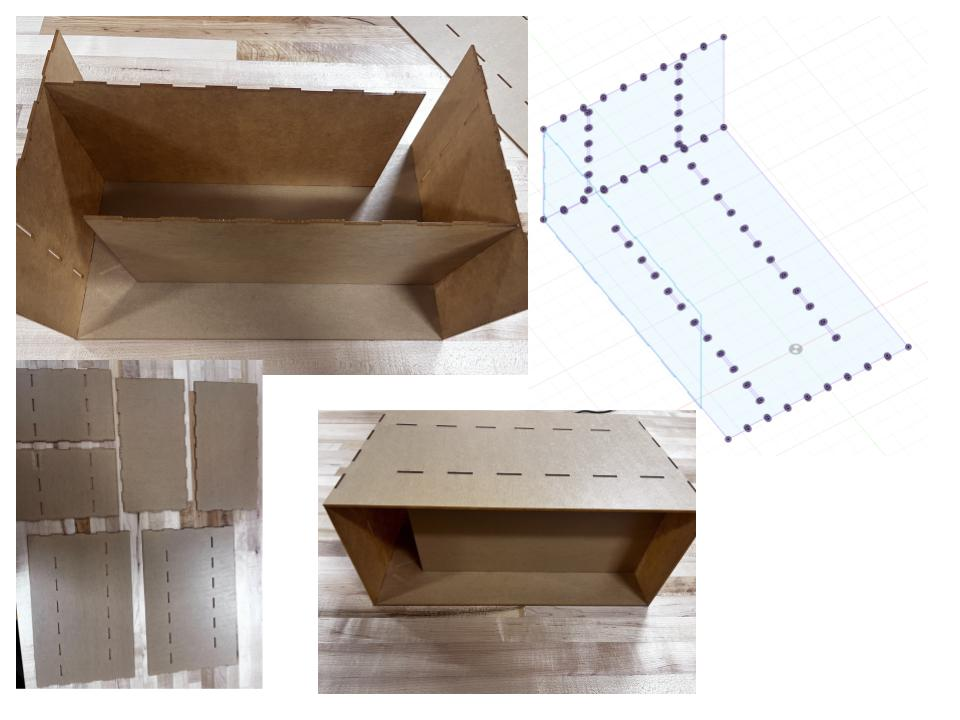
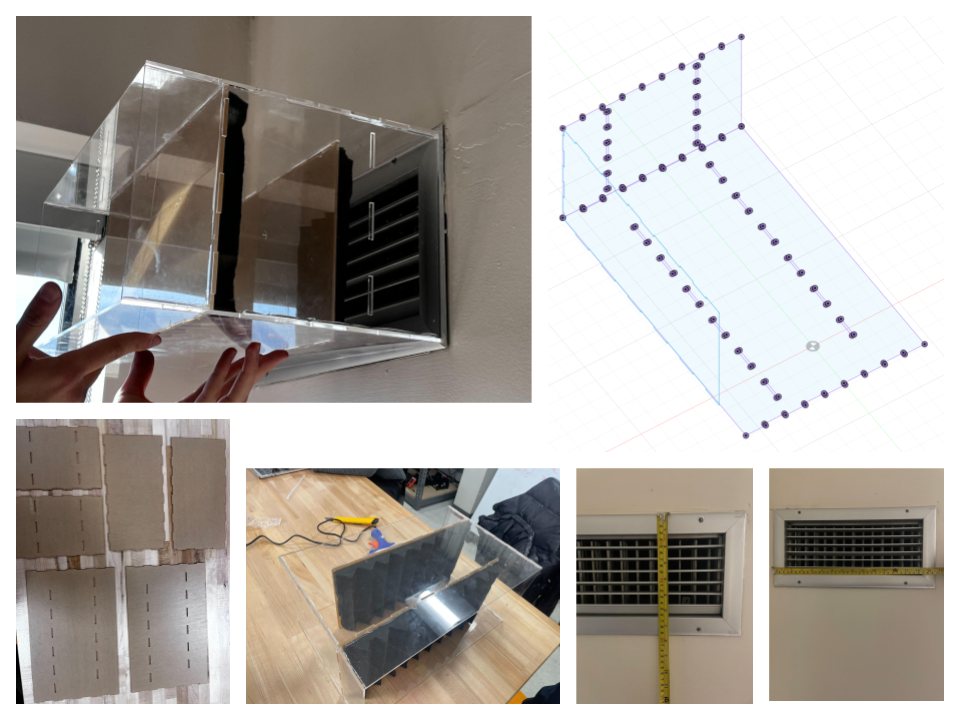
here we go

diff --git a/item.html b/item.html
@@ -46,7 +46,7 @@
                         <br>
                         1. To make your own ventsulator with your own vent's dimensions, download the fusion file <a href="assets/ventsulator.f3d" download="vent-design.f3d" class="btn btn-link">here</a>
                         <br>
-                        2. Put in your own dimensions for in the parameters tab
+                        2. Put in your own dimensions for in the parameters tab. NB: The picture above uses the standard vent in ziv should be 39 by 9.2 cm. It is recommended to make the outside of the vent slightly bigger so it can fit around the outside
                         <br>
                         3. Download and laser print two of each of the dxf files for each sketch
                         <br>
@@ -56,7 +56,7 @@
                         <br>
                         6. Assemble and glue the ventsulator
                         </p>
-                        <small>*this is compatible with Brandeis dorm rules which allow you to hold up objects with command strips or tape <a href="https://www.brandeis.edu/dcl/housing-on-campus/prohibited-items.html" target="_blank" rel="noopener noreferrer">see the dorm rules here</a> </small>
+                        <small>*The foam should be added to the panels in the middle like so, the transparent sides are for demonstration purposes. This is compatible with Brandeis dorm rules which allow you to hold up objects with command strips or tape <a href="https://www.brandeis.edu/dcl/housing-on-campus/prohibited-items.html" target="_blank" rel="noopener noreferrer">see the dorm rules here</a> </small>
                     </div>
                 </div>
             </div>
@@ -150,6 +150,24 @@
                 </div>
             </div>
         </section>
+        <!-- Sarah Hendren Reading -->
+        <header class="bg-dark py-5">
+            <div class="container px-5">
+                <div class="row gx-5 align-items-center justify-content-center">
+                    <div class="col-lg-9 col-xl-8 col-xxl-7">
+                        <div class="my-5 text-center text-xl-start">
+                            <h1 class="display-5 fw-bolder text-white-75 mb-2" style="font-family: 'Arial', sans-serif;">Overview</h1>
+                                <p class="lead fw-normal text-white-50 mb-4">Despite our idea being initially designed for Avi's vent, we realized it was much more than this. Through interviews and research, we found that many students struggle with sensory issues in their dorm but have no solution to these problems. After realizing our solution could be applied not just to Avi, we pivoted the idea so that it could become an execrable solution for any student who was struggling with sensory issues. This idea of design to improve the lives of students with disabilities is tied back to a reading by Sarah Hendrens that we did earlier in the semester. In her (2021) book, "What Can a Body Do?" Sarah Hendrens examines how technology and architecture can empower or constrain people with disabilities. She highlights how assistive devices, adaptive technologies, and inclusive design practices have improved lives and how they can help break down barriers to accessibility.</p>
+
+                                <div class="d-grid gap-3 d-sm-flex justify-content-sm-center justify-content-xl-start">
+                                    <a class="btn btn-primary btn-lg px-4 me-sm-3" href="https://a.co/d/cvUuOL2">The Book</a>
+                                </div>
+                        </div>
+                    </div>
+                    <div class="col-xl-4 col-xxl-5 d-xl-block text-center"><img class="img-fluid rounded-3 my-5" src="assets/book.png" height ="400" width="600" alt="..." /></div>
+                </div>
+            </div>
+        </header>
         <!-- Footer-->
         <footer class="py-5 bg-dark">
         </footer>
